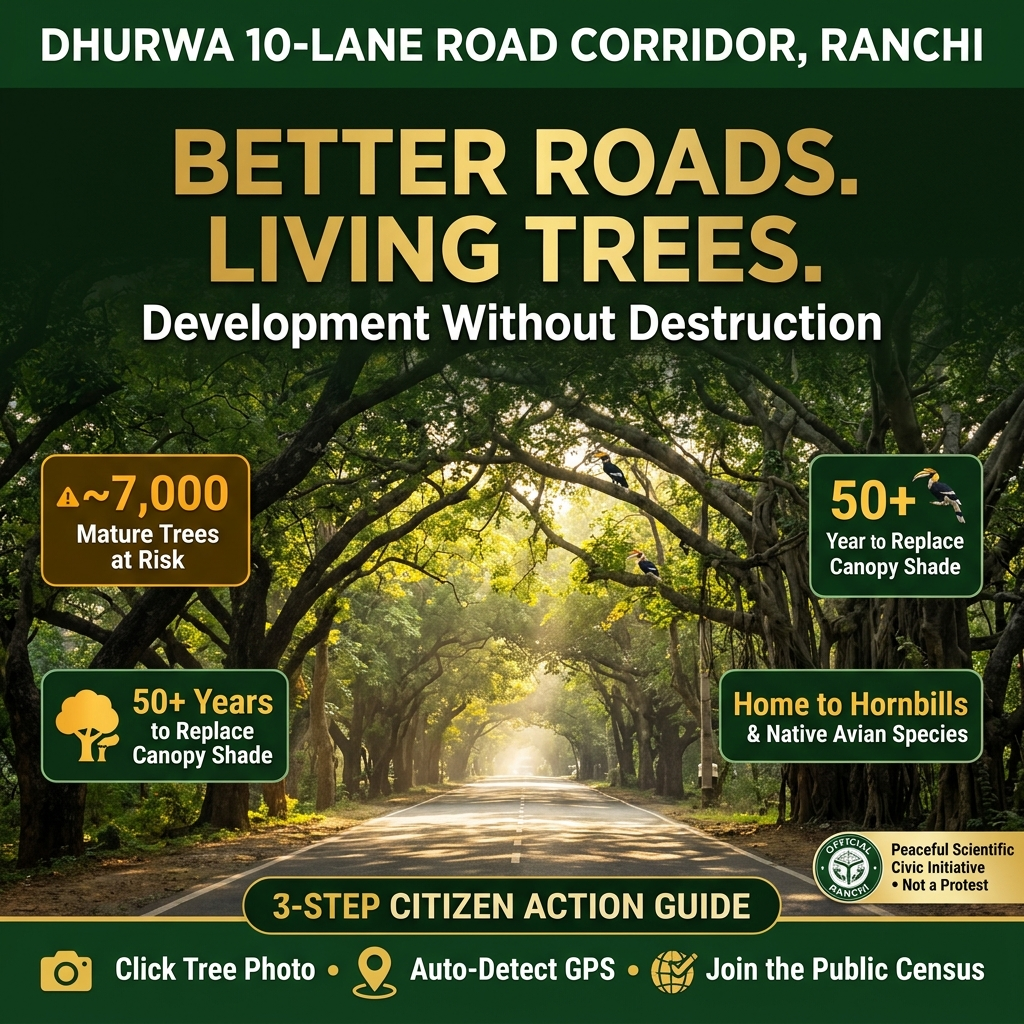
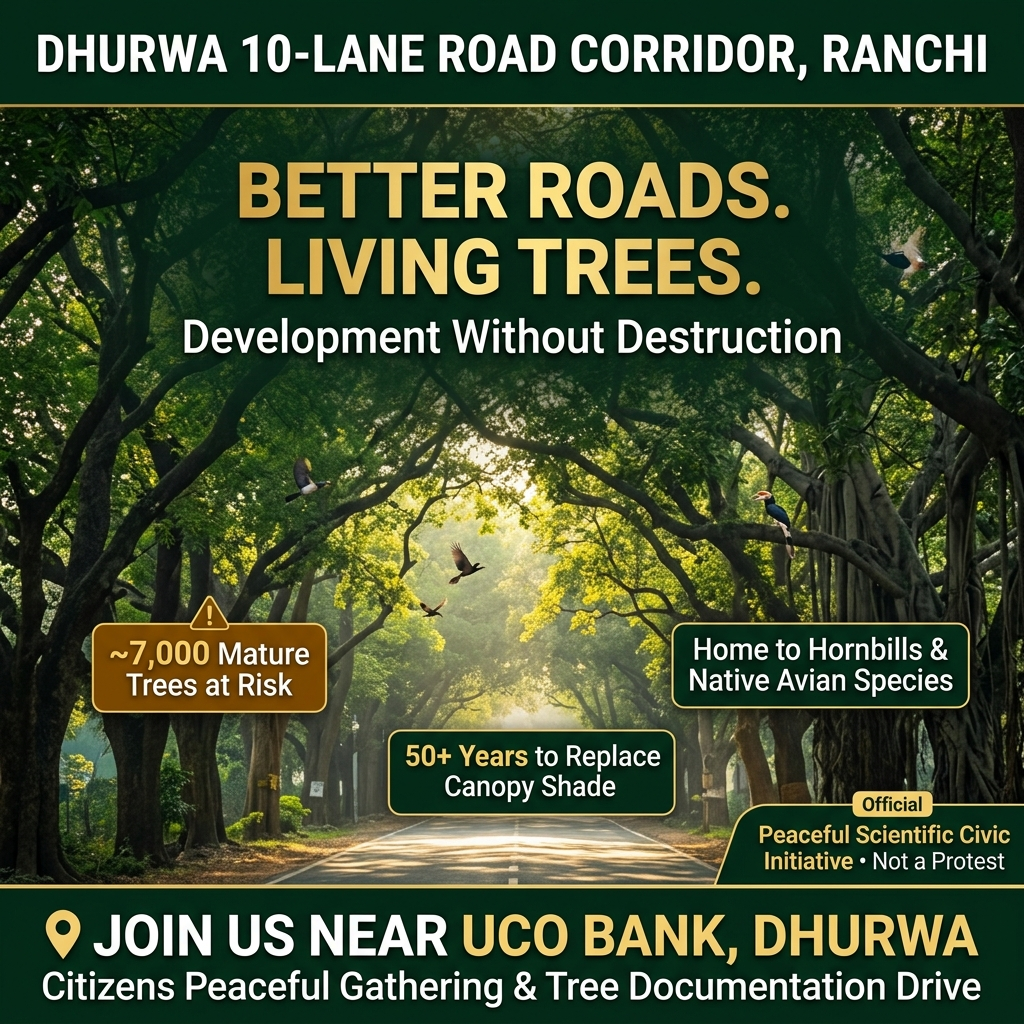
Update campaign poster and share text with UCO Bank Dhurwa gathering point

diff --git a/src/app/get-involved/page.tsx b/src/app/get-involved/page.tsx
@@ -80,11 +80,16 @@ export default function GetInvolvedPage() {
 
   const campaignSummary = `🌳 SAVE DHURWA TREES — Development Without Destruction.
 The proposed 10-lane road from Vivekananda School More to Ranchi Ring Road via Naya Sarai (6.089 km) could affect an estimated 7,000 mature trees.
+
+📍 GATHERING POINT: Join us near UCO Bank, Dhurwa for peaceful citizen awareness & tree documentation drive.
+🔍 NOTE: This is a lawful, scientific civic research initiative — not a protest.
+
 We advocate for:
 1. Publishing the official joint tree census.
-2. Exploring proven engineering alternatives (bypassing mature tree rows, optimizing cross-sections).
-3. Preserving Ranchi's urban green heritage for future generations.
-Explore the interactive map and sign the citizen petition:
+2. Preserving mature avenue trees wherever technically feasible.
+3. Constructive dialogue between citizens and urban planners.
+
+Explore the interactive tree map:
 https://savedhurwatrees.org`;
 
   const handleCopyShare = () => {
